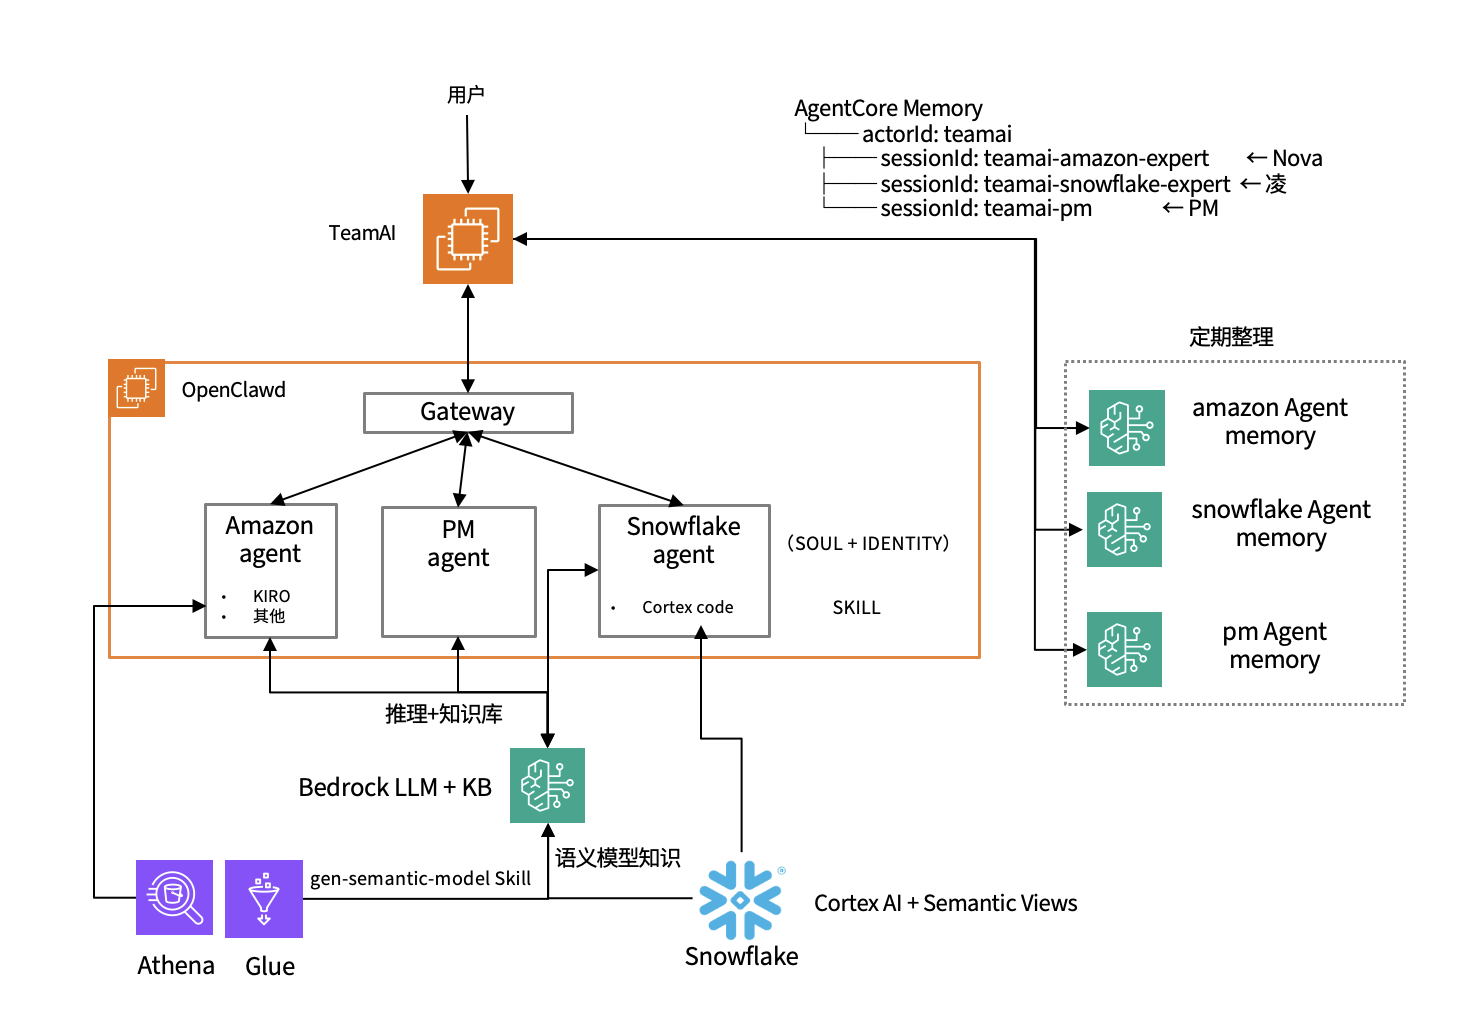
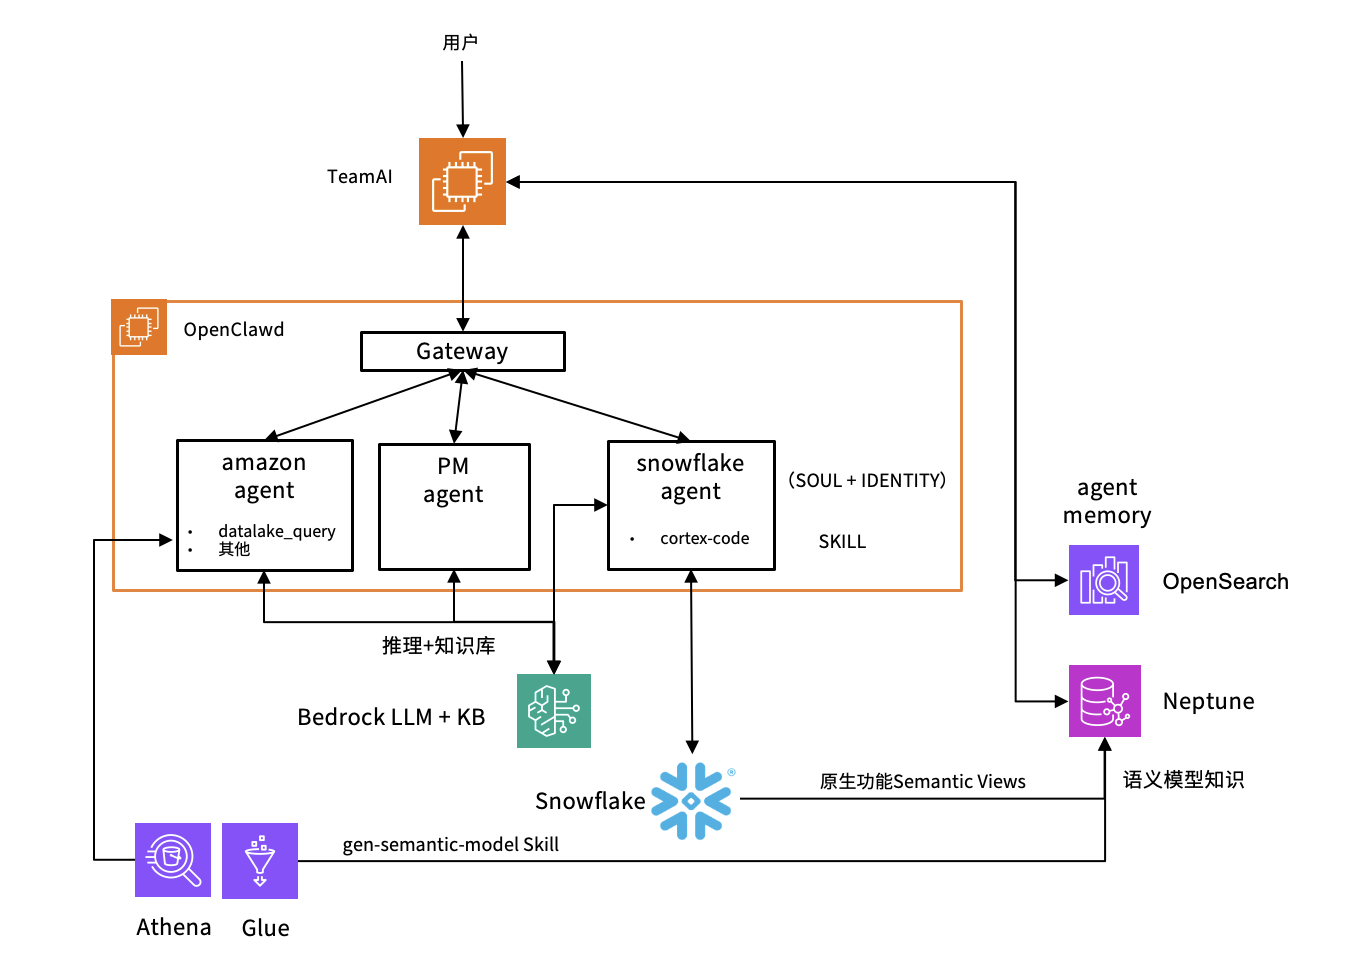
Update memory architecture: AgentCore → OpenSearch direct, add Adaptive Memory type system, update architecture diagram

diff --git a/requirements-teamai-data-agent.md b/requirements-teamai-data-agent.md
@@ -6,6 +6,8 @@
 
 ![架构图](images/architecture.png)
 
+![记忆治理](images/memory-governance.png)
+
 ![Demo 截图](images/demo-screenshot.png)
 
 ## 技术栈
@@ -13,7 +15,7 @@
 - **Agent 运行时**：OpenClaw Gateway（开源，部署在 Amazon EC2）
 - **前端/中间件**：TeamAI（Node.js + Express + WebSocket）
 - **模型推理**：Amazon Bedrock（Claude Sonnet 4.5）
-- **长期记忆**：Amazon Bedrock AgentCore Memory
+- **长期记忆**：Amazon OpenSearch Serverless（向量索引 + kNN 搜索，Bedrock Titan Embed v2）
 - **知识库**：Amazon Bedrock Knowledge Base + S3 + OpenSearch Serverless
 - **数据湖**：Amazon S3 + Athena + Glue Catalog
 - **语义图**：Amazon Neptune Analytics（向量搜索 + 图遍历，存储数据湖表关系和语义）
@@ -54,24 +56,30 @@
 ### F3: 上下文增强管线
 
 - 每条消息发送给 Agent 之前，系统并行执行：
-  - 从 AgentCore Memory 检索该 Agent 的相关历史记忆（topK=3，score>0.4）
+  - 从 OpenSearch 向量索引检索该 Agent 的相关历史记忆（kNN 搜索，topK=3，score>0.4），按类型权重 × 时间衰减排序
   - 从 Bedrock Knowledge Base 检索该 Agent 领域内的知识文档（topK=3，score>0.3）
 - 检索结果以前缀形式拼接到原始消息中
 - 检索超时 5 秒自动降级（不阻塞对话）
 
-### F4: 长期记忆（AgentCore Memory）
+### F4: 长期记忆（Adaptive Memory）
 
-- 每次 Agent 回复后，系统异步将问答对存入 AgentCore Memory（定时任务对话除外）
-- 记忆按 Agent 维度隔离（sessionId: teamai-{agentId}）
-- PM 可检索所有 Agent 的记忆（namespace: /facts/）
-- 其他 Agent 只检索自己的记忆（namespace: /summaries/）
+- **存储**：Amazon OpenSearch Serverless 向量索引（Bedrock Titan Embed v2，1024 维），直接 kNN 搜索，无第三方 Memory 框架依赖
+- **记忆按 Agent 维度隔离**（user_id 字段过滤）
+- **记忆类型体系**（v4，纯规则分类，零 LLM 调用写入）：
+  - 📌 rule（规则）— 业务规则、指标定义、业务逻辑澄清，权重 1.8，永不衰减
+  - ❤ preference（偏好）— 展示风格/格式偏好，权重 1.0，永不衰减
+  - 📸 snapshot（快照）— 查询需求描述 + SQL，权重 0.8，30 天衰减
+  - 💬 other（其他）— 兜底，权重 0.5，7 天衰减
+- **写入路径 — extract-helper 子 Agent**（定期从对话日志提取，fire-and-forget）：
+  - 程序化提取 snapshot：从 session jsonl 的 toolCall（SQL）+ toolResult 中直接提取需求描述和 SQL，不需要 LLM
+  - LLM 提炼 rule/preference：从用户消息中严格筛选业务规则和偏好，一次性分析请求不提取
+  - 所有类型直接 embed + 写入 OpenSearch（/add-raw），不经过 LLM fact extraction
+- **读取路径 — searchMemory**：
+  - 用户提问 → Bedrock Titan Embed → kNN 搜索 OpenSearch → 按 finalScore = vectorScore × typeWeight × decayFactor 排序 → 注入到用户消息前缀
+  - rule/preference 始终注入，snapshot 按相关性和衰减排序
 - 支持记忆的 CRUD 操作（列表、创建、更新、删除）
-- 支持记忆搜索
-- **定期记忆生命周期管理**（每天凌晨）：
-  - 第一步：从 TeamAI history 提炼前一天的对话要点，补写入 AgentCore Memory
-  - 第二步：由 LLM 自动整理每个 Agent 的记忆 — 合并重复、清理过时、归纳业务规则
-- **定时任务对话不写入 Memory**：scheduled 标记的对话跳过 storeMemory，避免刷新记录污染记忆
-- **MEMORY.md（精选记忆）**：每个 Agent 可维护一份精选知识文件，合并到 SOUL.md 中每次对话自动加载。支持在 Agent Profile 面板的设置 Tab 中在线编辑
+- **定时任务对话不写入 Memory**：scheduled 标记的对话跳过提取
+- **MEMORY.md（精选记忆）**：每个 Agent 可维护一份精选知识文件，合并到 SOUL.md 中每次对话自动加载
 
 ### F5: 知识库（Bedrock Knowledge Base + RAG）
 
@@ -122,7 +130,7 @@
 - 全局 Skill 库，通过符号链接按需挂载给不同 Agent
 - 当前 Skill 列表：
   - agent-browser — 浏览器控制
-  - agentcore-memory — 长期记忆操作
+  - memory-service — 长期记忆服务（OpenSearch 向量索引 CRUD + kNN 搜索）
   - aws-cli — Amazon CLI 操作
   - datalake_query — 数据湖智能查询（Neptune 图查询 → SQL 生成 → Athena 执行）
   - gen-semantic-model — 数据湖语义模型生成
@@ -145,12 +153,12 @@
 
 - 支持 Cron 表达式调度
 - 定时向指定 Agent 发送消息触发任务
-- 定时任务对话标记 scheduled=true，不写入 AgentCore Memory
+- 定时任务对话标记 scheduled=true，不触发记忆提取
 - 支持创建、编辑、启用/禁用、手动触发、删除
 - 当前定时任务：
   - 每天：同步数据湖表结构到 Neptune Analytics 语义图（Glue → 图节点/边 + 向量）
   - 每天：同步 Snowflake Semantic Views 到语义图（先清后写，source=snowflake）
-  - 每天 2:00：记忆生命周期管理（提炼前一天对话 + 整理 Memory）
+  - 每天 2:00：extract-helper 定期提取记忆（程序化 snapshot + LLM rule/preference）
   - 每天 8:00：天气查询
 
 ### F11: 文件上传
@@ -199,6 +207,7 @@
 - Amazon EC2 实例
 - TeamAI 服务：端口 3001（systemd: multi-chat.service）
 - OpenClaw Gateway：端口 3000（systemd: clawdbot-gateway.service）
+- Memory 服务：端口 3005（systemd: mem0-service）— 直接 OpenSearch + Bedrock Embed，无第三方框架
 - Agent 配置：~/clawd/agents/（SOUL.md / IDENTITY.md / TOOLS.md / skills/）
 - 全局 Skill 库：~/clawd/skills/
 - 数据目录：~/multi-chat/history/（对话历史 + 频道配置 + 任务 + 定时任务）
